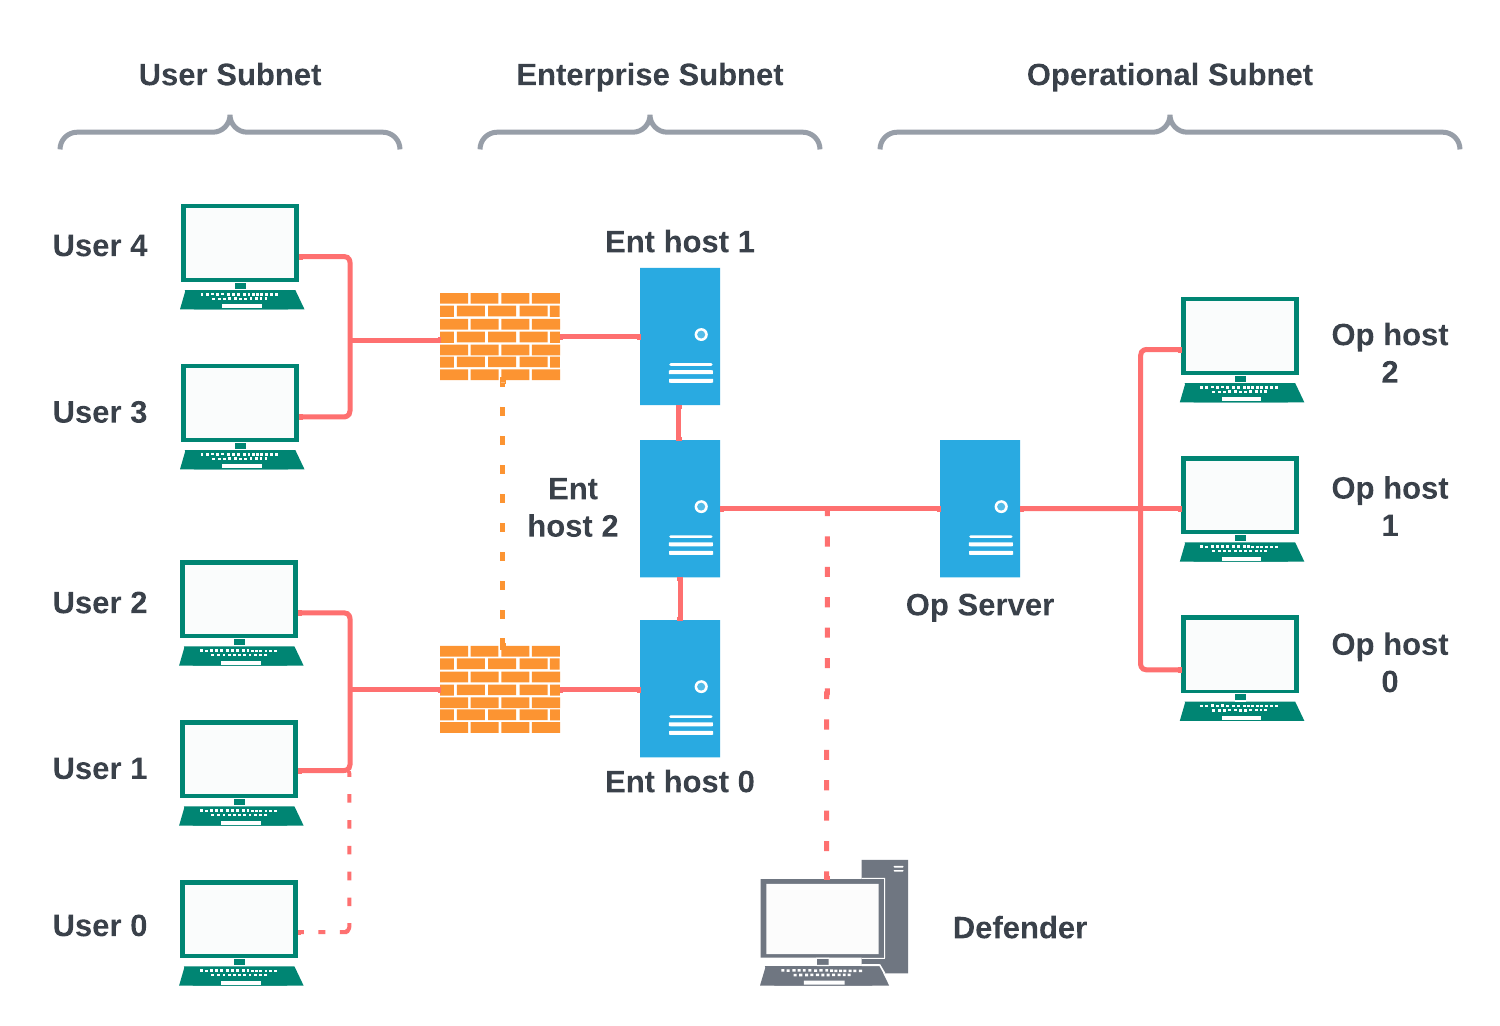
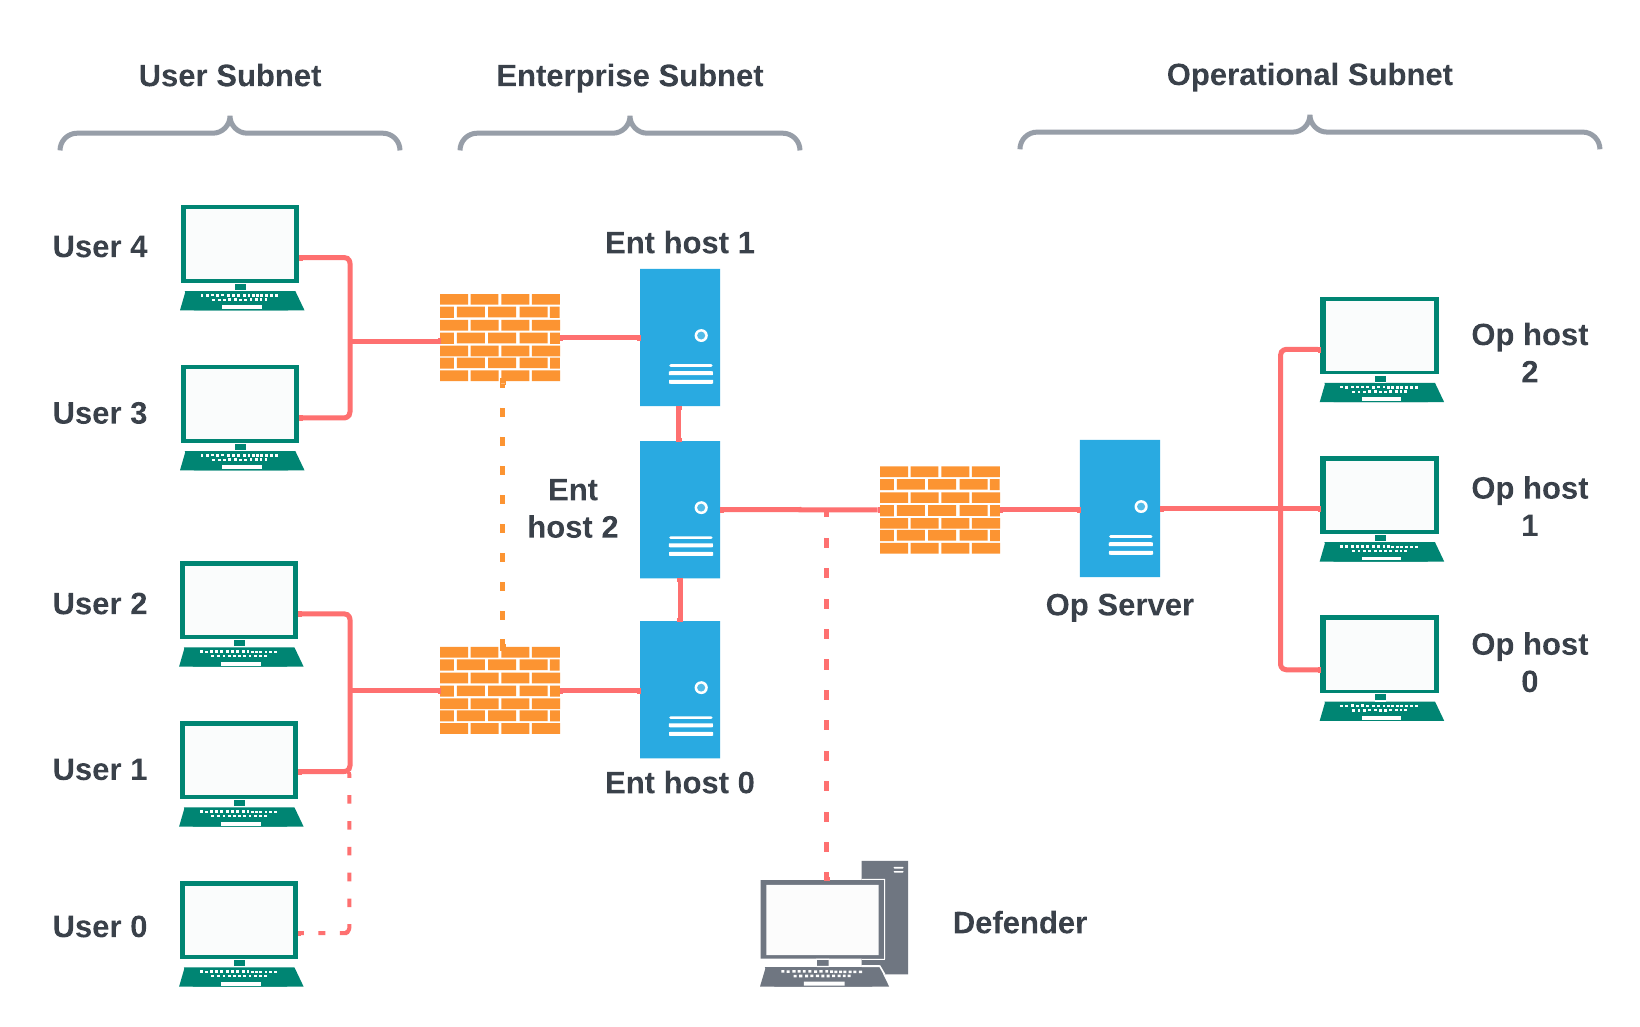
Editing the network diagram and its caption to include the 2nd firewall and giving some context about what the dotted lines in the diagram mean.

diff --git a/README.md b/README.md
@@ -21,7 +21,12 @@ The following info is to the best of our knowledge, and if there are intricacies
 
 <p align="center">
     <img src="Extras/images/True_Network_Diagram.png" alt="Diagram of the system" width="600"/>
-    <figcaption style="text-align: center;"><em>Figure 1: CAGE2 CybORG Network Diagram</em></figcaption>
+    <figcaption style="text-align: center;"><em>Figure 1: CAGE2 CybORG Network Diagram. The orange 
+    dotted line indicates that it is the same firewall between the User subnet and Enterprise subnet. The red dotted 
+    line indicates in the case of the defender indicates that it is a host on the network but its location is not relevant. 
+    The red dotted line for User0 indicates that this is a host on the network but that the blue agent cannot 
+interact with it.
+</em></figcaption>
 </p>
 
 ## CybORG Agents
